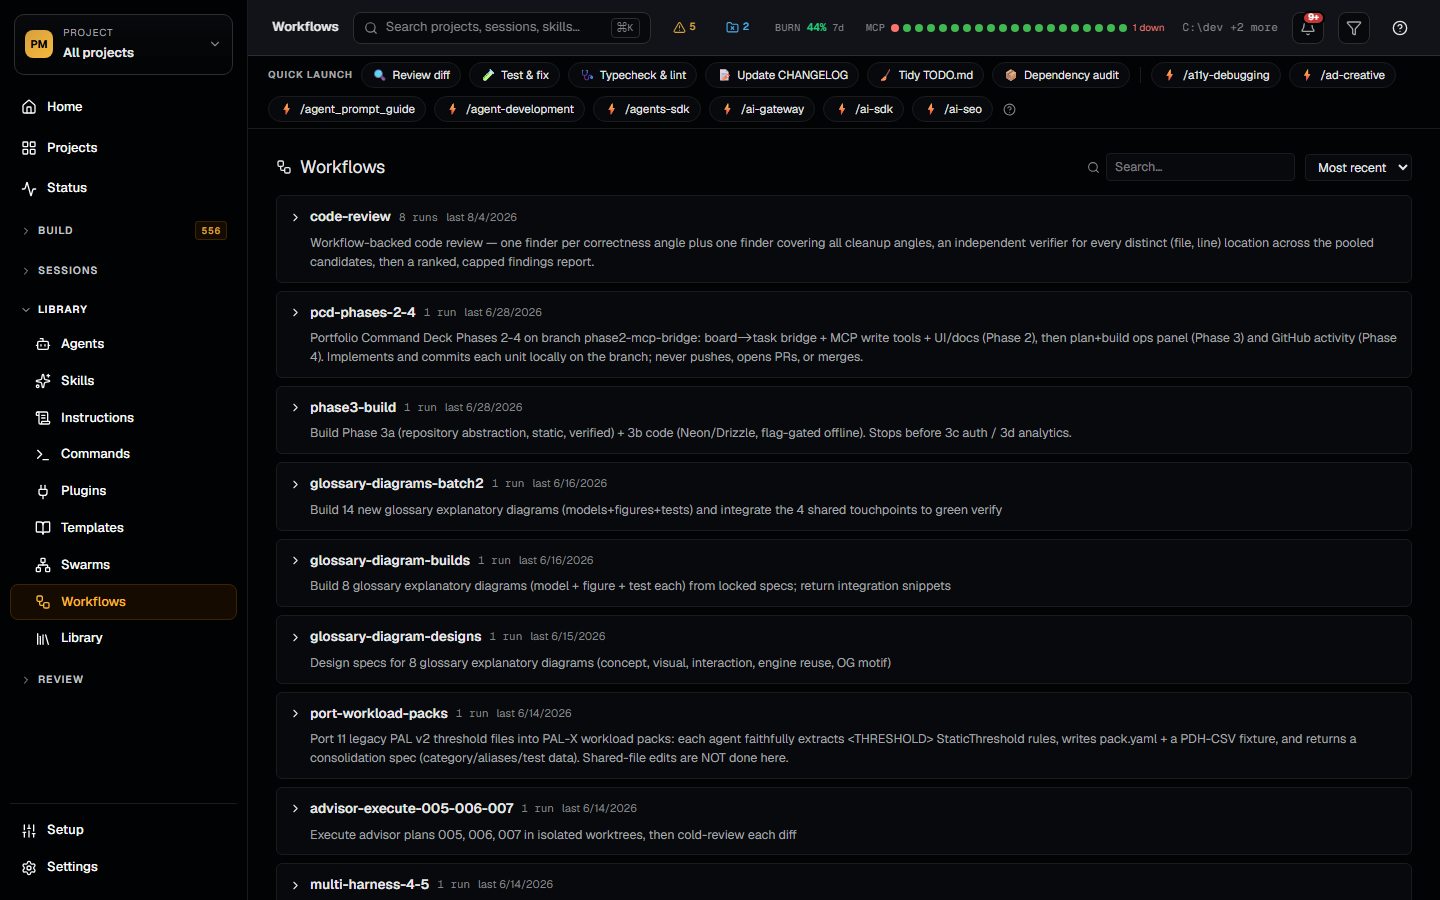
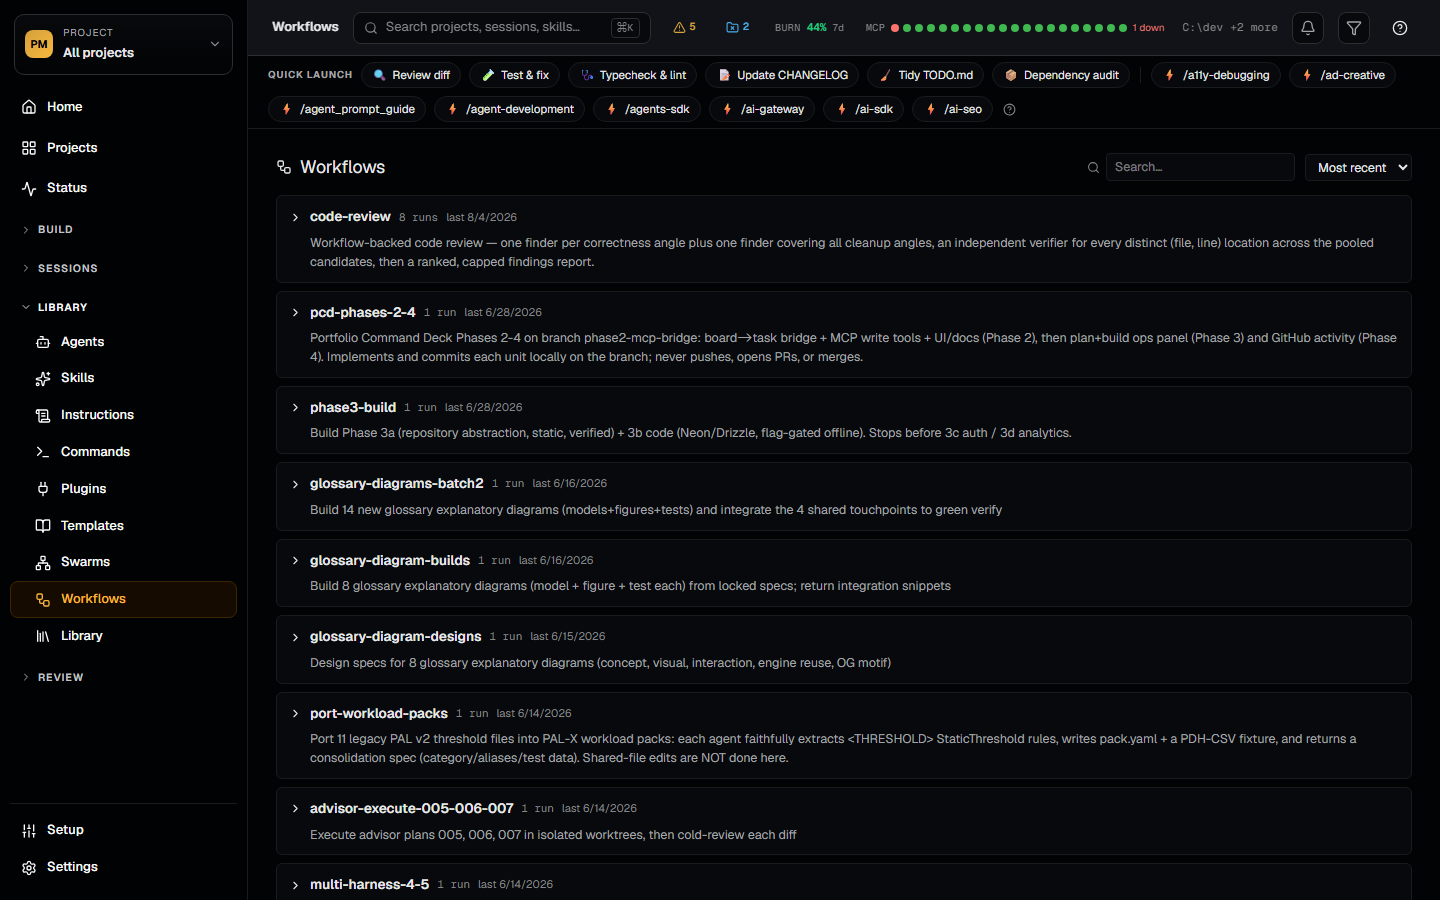
fix(capture): assert the subject rendered, and stop timing out slow routes
Round 6 — four findings, three of them consequences of the previous round.

- **Copilot: 60s stability budget became a hair-trigger.** Harmless while a
  stability timeout was swallowed; now that it fails the run, it fired on
  precisely the slowest route — /costs is measured at ~60s cold, against a 180s
  navigation budget. `stableTimeout` now defaults to the same budget as
  navigation. The wait short-circuits after 1.5s of quiet, so the higher
  ceiling costs a prompt page nothing.

- **Codex P2: /workflows could publish a loading screen.** `WorkflowsBrowser`
  prints a plain "Loading…" paragraph rather than a skeleton
  (WorkflowsBrowser.tsx:113), so waitForStableUI sails past it on a large
  history. Given the existing `waitTextGone` treatment.

- **Codex P2: github-activity.png could save with no GitHub strip.**
  `GithubActivityStrip` is quiet by design — it renders nothing when `gh` is
  missing, unauthenticated, or slower than the settle window, and the cache can
  spend three sequential 8s `gh` calls. An empty strip is indistinguishable
  from a finished one, so shots whose subject may legitimately render as
  nothing now demand positive evidence via a new `requireText` assertion.
  Verified it discriminates: the strip's own heading resolves true, a sentinel
  string resolves false.

- **Codex P2: the MCP allowlist is not hardcoded to 4100.** `boundPort.ts`
  builds it from the port actually bound and admits localhost, 127.0.0.1 and
[…]

diff --git a/site/index.html b/site/index.html
@@ -255,7 +255,7 @@
           <h2>Power-User Tools</h2>
           <p>For when you need to go deeper. The <strong>Commands catalog</strong> indexes every slash command across user, plugin, and project scope with allowed-tools, argument hints, body excerpts, and one-click "copy to project". The <strong>SQL browser</strong> exposes the indexed session database directly — full schema sidebar and a results table, for when the built-in dashboards don't slice it the way you need. The <strong>Plans browser</strong> tracks GSD phase plans across all repos. <strong>Schedule</strong> manages cron-scheduled remote agent routines (create, update, run on demand). <strong>Health</strong> watches port conflicts, file-watcher status, MCP server health, and database integrity. The <strong>Insights Report viewer</strong> sandboxes and renders <code>claude /insights</code>'s HTML output inline with server-side sanitization, polling for regeneration. <strong>Adapter settings</strong> enable Claude Code, Codex, and Gemini session sources independently so you can index sessions from every coding agent you use. The <strong>Harnesses</strong> page (route <code>/adapters</code>) goes one step further with a read-only view of an enabled harness's own config home — the Codex adapter reads <code>~/.codex/config.toml</code> and its instruction files — with <em>secret redaction</em> applied on the server before anything leaves it: tokens, API keys, and auth headers are blanked wholesale while the surrounding keys stay visible, so you can see <em>that</em> something is configured without exposing its value. View-only by design, never an edit or copy affordance.</p>
           <p>The <strong>Workflows catalog</strong> folds Claude Code's per-session workflow scripts into one row per workflow rather than one per run, which turns a directory of near-identical copies into an answer to "which workflows do I actually use, and how often." The <strong>Instructions browser</strong> is its counterpart for the other harnesses: enable the Codex or Gemini adapter and it catalogs their native instruction files (Codex <code>rules</code>, <code>AGENTS.md</code>, and <code>prompts</code>; Gemini's <code>GEMINI.md</code>) with the projected context cost of each, so you can see what a session pays to read before it starts. Read-only, and opt-in per harness.</p>
-          <p>And Project Minder answers questions from inside Claude, not just in the browser. It ships its own <strong>MCP server</strong> over Streamable HTTP: point Claude Code or Claude Desktop at it and Claude can query your token usage, sessions, agents and skills catalogs, OTEL telemetry, manual steps, insights, git status, and portfolio stats directly, plus write to the board. Tools call the library functions in-process rather than looping back over HTTP, and the transport's DNS-rebinding protection restricts accepted <code>Host</code> and <code>Origin</code> headers to <code>localhost:4100</code>. That guards the browser attack it is meant for; if you want the socket itself unreachable from the network, bind the server to loopback.</p>
+          <p>And Project Minder answers questions from inside Claude, not just in the browser. It ships its own <strong>MCP server</strong> over Streamable HTTP: point Claude Code or Claude Desktop at it and Claude can query your token usage, sessions, agents and skills catalogs, OTEL telemetry, manual steps, insights, git status, and portfolio stats directly, plus write to the board. Tools call the library functions in-process rather than looping back over HTTP, and the transport's DNS-rebinding protection restricts accepted <code>Host</code> and <code>Origin</code> headers to the loopback names — <code>localhost</code>, <code>127.0.0.1</code>, <code>[::1]</code> — on whichever port the server actually bound, so a custom port keeps working and the default one stops being trusted. That guards the browser attack it is meant for; if you want the socket itself unreachable from the network, bind the server to loopback.</p>
           <div class="secondary-shots">
             <img src="screenshots/workflows.png" alt="Workflows catalog — one row per workflow with run counts, not one per session copy">
             <img src="screenshots/sql.png" alt="SQL browser — direct queries against the indexed session database">
